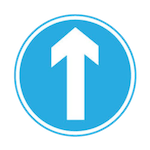
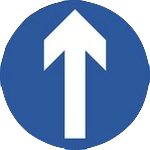
cleaned up images and color a bit

diff --git a/ui/Dashboard.java b/ui/Dashboard.java
@@ -139,13 +139,13 @@ public class Dashboard extends JPanel {
   }
  
   private void renderLightValueLabel(Graphics2D g2d) {
-    this.drawCenteredText( g2d, "" + this.lightValue, Color.green, 
+    this.drawCenteredText( g2d, "" + this.lightValue, Color.red, 
                            50, 0, 200, 200 );
   }
   
   private void renderBarcode(Graphics2D g2d) {
     if( this.barcode >= 0 ) {
-      this.drawCenteredText( g2d, this.getBarcode(), Color.blue, 
+      this.drawCenteredText( g2d, this.getBarcode(), new Color(44,89,156), 
                              350, 50, 150, 32 );
     }
   }
